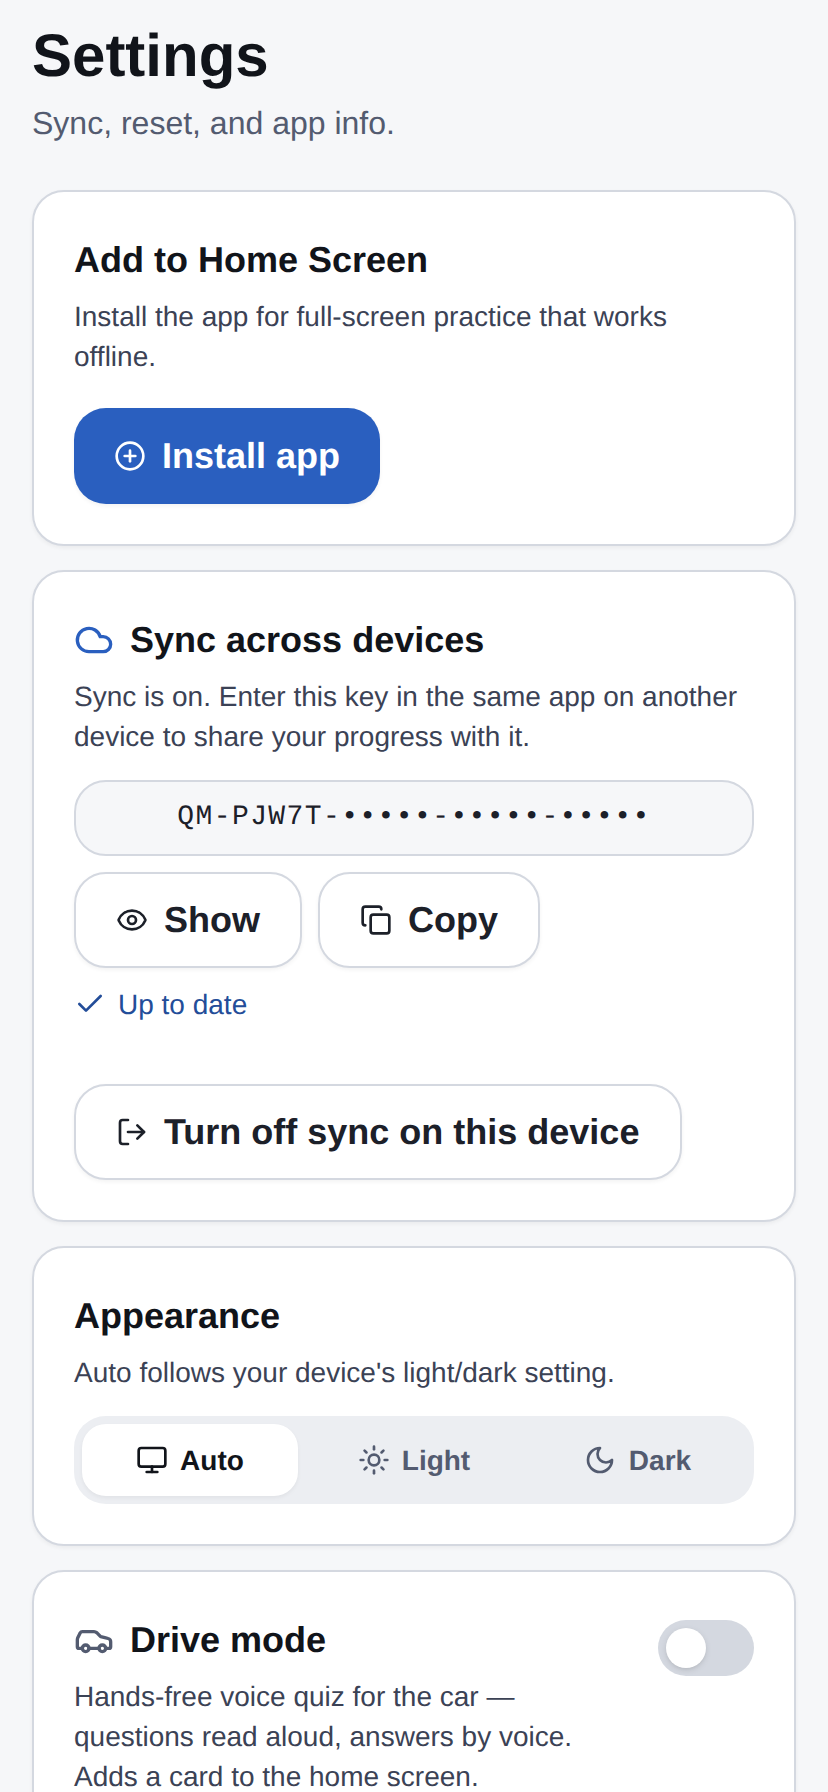
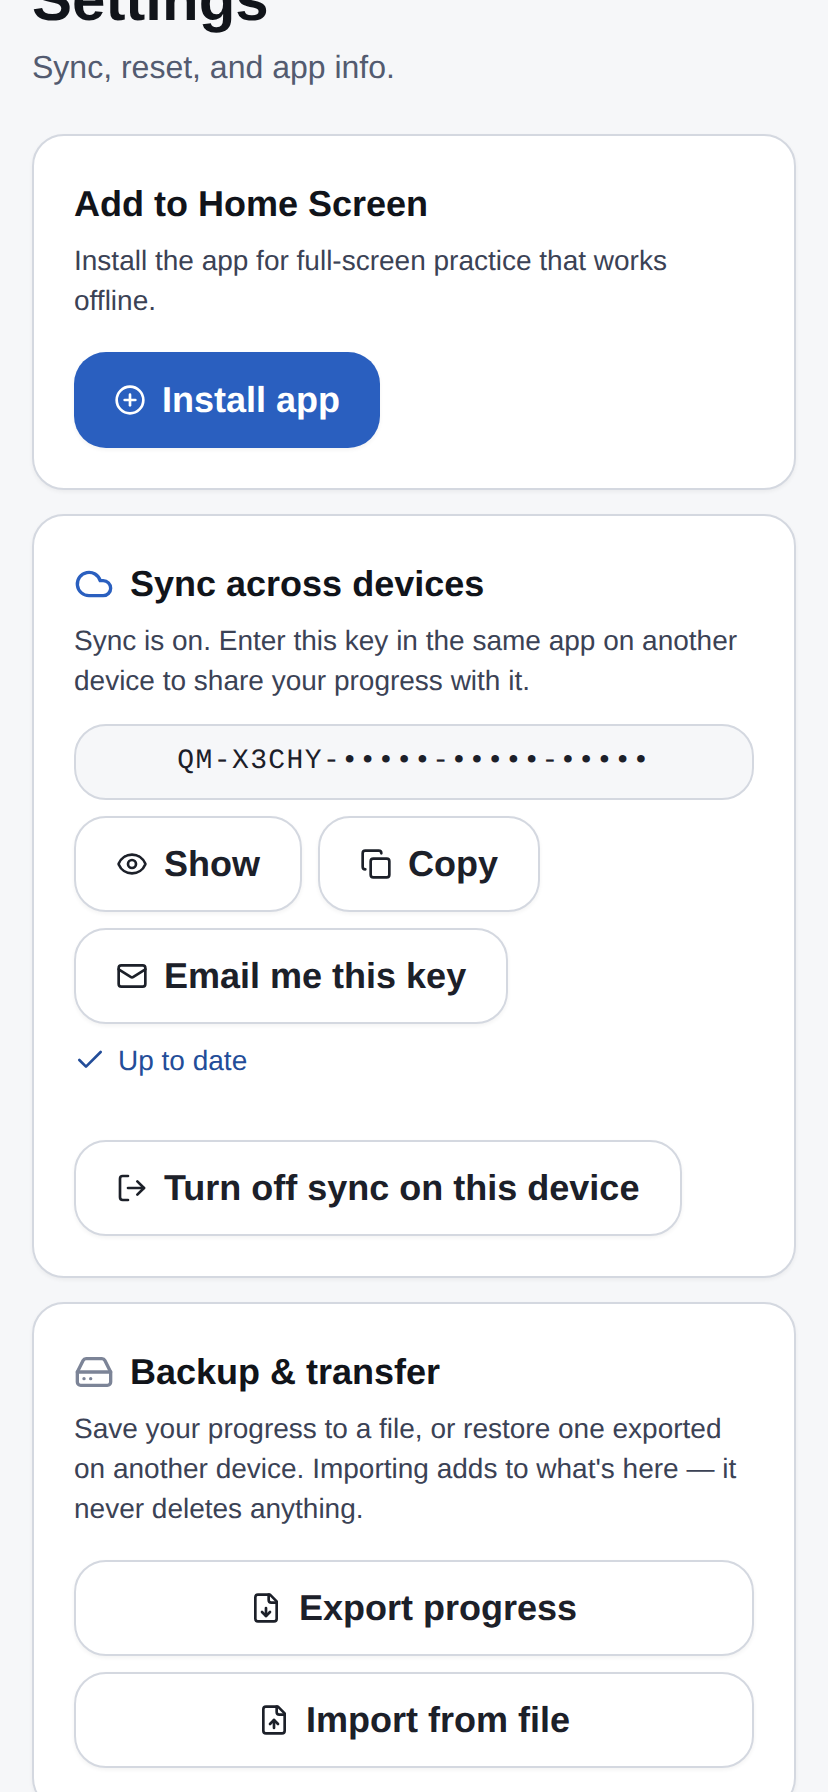
Add lost-key recovery: email the sync key to yourself + share sheet
A sync key only exists on the devices that hold it, so losing them all
orphans the cloud copy. Give the key an escape hatch with zero
infrastructure: an "Email me this key" action that opens the user's OWN
mail app with the key pre-filled (mailto: with no recipient — they send
it to themselves, and no server ever sees the key or the address), plus
the system share sheet on devices that have one (Notes, password
manager, self-chat). Recovery = search your inbox.

The just-created nudge now points at the email action as the easiest
way to keep the key. buttonStyles is exported from ui/Button so the
mailto (a real <a>) can dress as a secondary button.

Claude-Session: https://claude.ai/code/session_01WCUH5GxgqXn354FSVs79LQ

diff --git a/src/components/SyncKeySettings.tsx b/src/components/SyncKeySettings.tsx
@@ -1,16 +1,33 @@
 'use client';
 
 import { useEffect, useState } from 'react';
-import { Check, Cloud, CloudOff, Copy, Eye, EyeOff, KeyRound, LogOut } from 'lucide-react';
-import { Button } from '@/components/ui/Button';
+import {
+  Check,
+  Cloud,
+  CloudOff,
+  Copy,
+  Eye,
+  EyeOff,
+  KeyRound,
+  LogOut,
+  Mail,
+  Share2,
+} from 'lucide-react';
+import { Button, buttonStyles } from '@/components/ui/Button';
 import { SyncStatusLine } from '@/components/SyncStatusLine';
+import { APP_CONFIG } from '@/config';
 import { useSyncStatus } from '@/lib/useStorage';
 import {
   clearSyncKey,
   getStoredSyncKey,
   setSyncKey,
 } from '@/lib/backends/httpBackend';
-import { generateSyncKey, isValidSyncKey, maskSyncKey } from '@/lib/syncKey';
+import {
+  generateSyncKey,
+  isValidSyncKey,
+  maskSyncKey,
+  syncKeyMailto,
+} from '@/lib/syncKey';
 
 /**
  * "Sync across devices" card for the HTTP sync backend (Cloudflare Worker
@@ -32,10 +49,13 @@ export function SyncKeySettings() {
   const [entering, setEntering] = useState('');
   const [error, setError] = useState<string | null>(null);
   const [status, setStatus] = useState<string | null>(null);
+  // Web Share API availability — read after mount (SSR renders without it).
+  const [canShare, setCanShare] = useState(false);
   const sync = useSyncStatus();
 
   useEffect(() => {
     setKey(getStoredSyncKey());
+    setCanShare(typeof navigator !== 'undefined' && Boolean(navigator.share));
     setReady(true);
   }, []);
 
@@ -80,6 +100,18 @@ export function SyncKeySettings() {
     }
   }
 
+  async function shareKey() {
+    if (!key) return;
+    try {
+      await navigator.share({
+        title: `${APP_CONFIG.title} — sync key`,
+        text: `Sync key for ${APP_CONFIG.title}: ${key}\nEnter it in Settings → Sync across devices.`,
+      });
+    } catch {
+      // user dismissed the share sheet — nothing to do
+    }
+  }
+
   async function stopSyncing() {
     await clearSyncKey();
     setKey(null);
@@ -109,9 +141,9 @@ export function SyncKeySettings() {
           </p>
           {justCreated && (
             <p className="mt-3 rounded-lg bg-brand-50 px-3 py-2 text-sm text-brand-800">
-              Save this key somewhere safe (a password manager is perfect) —
-              it exists only on this device and is the only way to link
-              another one.
+              Save this key now — it exists only on this device and is the
+              only way to link another one. Easiest: email it to yourself
+              below, or pop it in a password manager.
             </p>
           )}
           <div className="mt-3 flex flex-col gap-2 sm:flex-row sm:items-center">
@@ -131,6 +163,24 @@ export function SyncKeySettings() {
                 {copied ? 'Copied' : 'Copy'}
               </Button>
             </div>
+          </div>
+          <div className="mt-2 flex flex-wrap gap-2">
+            {/* Recovery without infrastructure: opens the user's OWN mail
+                app with the key pre-filled — no server ever sees it.
+                Losing every device then just means searching your inbox. */}
+            <a
+              href={syncKeyMailto(key, APP_CONFIG.title)}
+              className={buttonStyles({ variant: 'secondary', size: 'md' })}
+            >
+              <Mail className="h-4 w-4" />
+              Email me this key
+            </a>
+            {canShare && (
+              <Button variant="secondary" onClick={shareKey}>
+                <Share2 className="h-4 w-4" />
+                Share
+              </Button>
+            )}
           </div>
           <SyncStatusLine state={sync.state} pending={sync.pending} />
           <Button variant="secondary" className="mt-6" onClick={stopSyncing}>

diff --git a/src/lib/syncKey.ts b/src/lib/syncKey.ts
@@ -94,6 +94,25 @@ export async function hashSyncKey(key: string): Promise<string> {
     .join('');
 }
 
+/**
+ * A mailto: URL that opens the user's own mail app with the key pre-filled,
+ * addressed to nobody — they send it to themselves. This is the recovery
+ * story for lost keys with zero infrastructure: the email goes out through
+ * the user's mail client, so no server (ours included) ever sees the key
+ * or the address. Recovery = search your inbox for the app's name.
+ */
+export function syncKeyMailto(key: string, appTitle: string): string {
+  const canonical = normalizeSyncKey(key) ?? key;
+  const subject = `${appTitle} — sync key`;
+  const body =
+    `Your sync key for ${appTitle}:\n\n` +
+    `${canonical}\n\n` +
+    `To link a new device (or recover your progress), open the app, go to ` +
+    `Settings → Sync across devices, and enter this key.\n\n` +
+    `Keep this email — anyone with the key can access this practice history.`;
+  return `mailto:?subject=${encodeURIComponent(subject)}&body=${encodeURIComponent(body)}`;
+}
+
 /** Masked rendering for the Settings card, e.g. `QM-H3KDA-•••••-•••••-•••••`. */
 export function maskSyncKey(key: string): string {
   const canonical = normalizeSyncKey(key);

diff --git a/tests/sync-key.test.ts b/tests/sync-key.test.ts
@@ -7,6 +7,7 @@ import {
   isValidSyncKey,
   maskSyncKey,
   normalizeSyncKey,
+  syncKeyMailto,
 } from '../src/lib/syncKey';
 
 const CANONICAL = /^QM(-[A-Z2-9]{5}){4}$/;
@@ -94,5 +95,18 @@ describe('maskSyncKey', () => {
   it('keeps the first group readable and hides the rest', () => {
     const masked = maskSyncKey('QM-ABCDE-FGHJK-MNPQR-STVWX');
     expect(masked).toBe('QM-ABCDE-•••••-•••••-•••••');
+  });
+});
+
+describe('syncKeyMailto (self-email recovery)', () => {
+  it('builds a mailto: with no recipient, the app name, and the canonical key', () => {
+    const key = 'QM-ABCDE-FGHJK-MNPQR-STVWX';
+    const url = syncKeyMailto(key.toLowerCase(), 'Solar System Practice');
+    expect(url.startsWith('mailto:?')).toBe(true); // user picks the recipient
+    const params = new URLSearchParams(url.slice('mailto:?'.length));
+    expect(params.get('subject')).toContain('Solar System Practice');
+    const body = params.get('body') ?? '';
+    expect(body).toContain(key); // canonicalised, despite lowercase input
+    expect(body).toContain('Settings');
   });
 });

diff --git a/src/components/ui/Button.tsx b/src/components/ui/Button.tsx
@@ -2,7 +2,9 @@ import { cva, type VariantProps } from 'class-variance-authority';
 import * as React from 'react';
 import { cn } from '@/lib/cn';
 
-const buttonStyles = cva(
+// Exported so link-shaped actions (e.g. a mailto: that must be a real <a>)
+// can wear the same clothes as a Button.
+export const buttonStyles = cva(
   'tap-feedback inline-flex items-center justify-center gap-2 rounded-xl font-semibold ring-offset-2 ring-offset-ink-50 transition-colors focus-visible:outline-none focus-visible:ring-2 focus-visible:ring-brand-500 disabled:cursor-not-allowed disabled:opacity-60',
   {
     variants: {

diff --git a/cloudflare/README.md b/cloudflare/README.md
@@ -80,8 +80,14 @@ it like a password. That capability-URL trust model is a deliberate fit
 for the data mirrored here (quiz attempts, stickers, question votes) —
 don't reuse this worker for anything sensitive.
 
-Losing every device with the key means the cloud copy is orphaned (the
-data is still on the devices; creating a new key re-uploads it).
+**Losing the key.** The card offers "Email me this key" — it opens the
+user's OWN mail app with the key pre-filled, addressed to themselves, so
+recovery is just searching your inbox (no server, ours included, ever
+sees the email or the key). On phones there's also the system share
+sheet (Notes, a password manager, a self-chat). If every copy is truly
+gone, the cloud rows are orphaned but the data still lives on the
+devices — Settings → Backup & transfer exports it, and creating a new
+key re-uploads it.
 
 ## API
 
